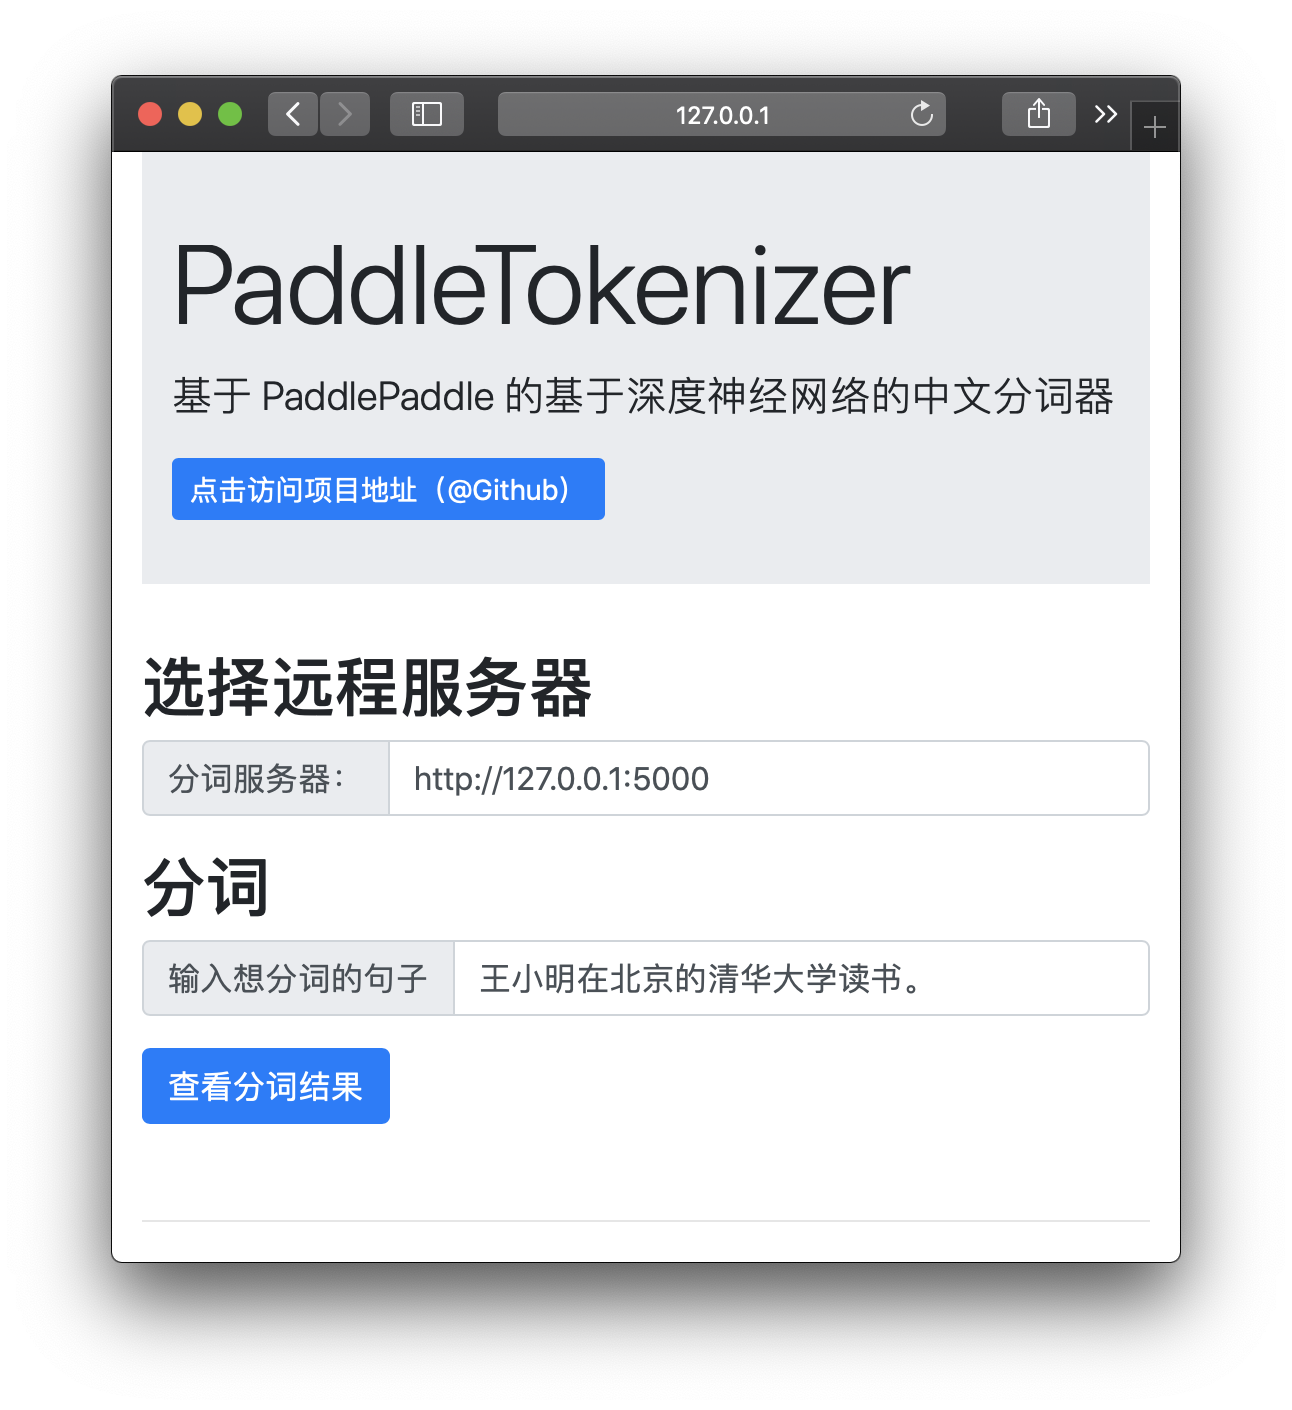
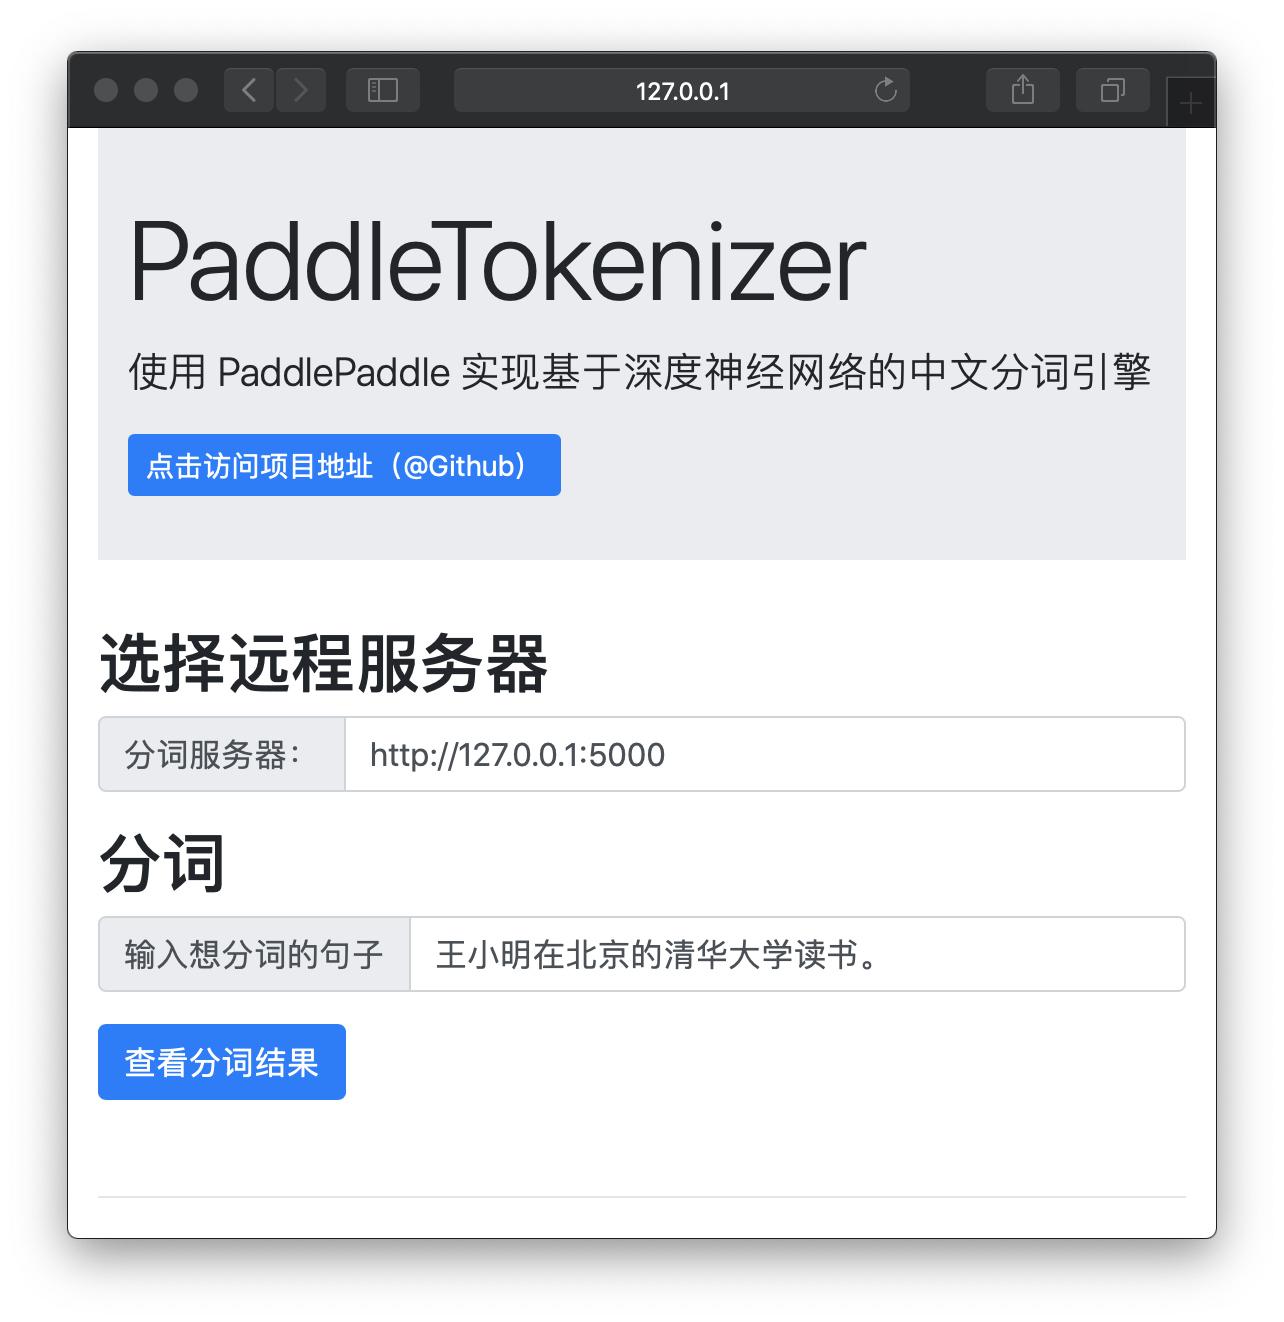
Update title

Changed region(s): [[0.0312, 0.031, 0.9657, 0.9614]]

diff --git a/WebUI/index.html b/WebUI/index.html
@@ -27,7 +27,7 @@
     <div class="jumbotron jumbotron-fluid">
         <div class="container">
             <h1 class="display-4">PaddleTokenizer</h1>
-            <p class="lead">基于 PaddlePaddle 的基于深度神经网络的中文分词器</p>
+            <p class="lead">使用 PaddlePaddle 实现基于深度神经网络的中文分词引擎</p>
             <a class="btn btn-primary btn-sm" href="https://github.com/howl-anderson/PaddleTokenizer" role="button"
                target="_blank">点击访问项目地址（@Github）</a>
         </div>

diff --git a/README.md b/README.md
@@ -1,6 +1,6 @@
 # PaddleTokenizer
 
-一个基于 PaddlePaddle 的基于深度神经网络的中文分词器。附带一个 Web UI，用于演示。
+使用 PaddlePaddle 实现基于深度神经网络的中文分词引擎
 
 <img src="imgs/demo.png" width="60%">
 
@@ -44,4 +44,4 @@ bbash ./UI.sh
 ## 访问前端页面
 打开页面：http://127.0.0.1:8000 即可，效果如下:
 
-<img src="imgs/screen-shot.png" width="70%">
+<img src="imgs/screen-shot.png" width="75%">
